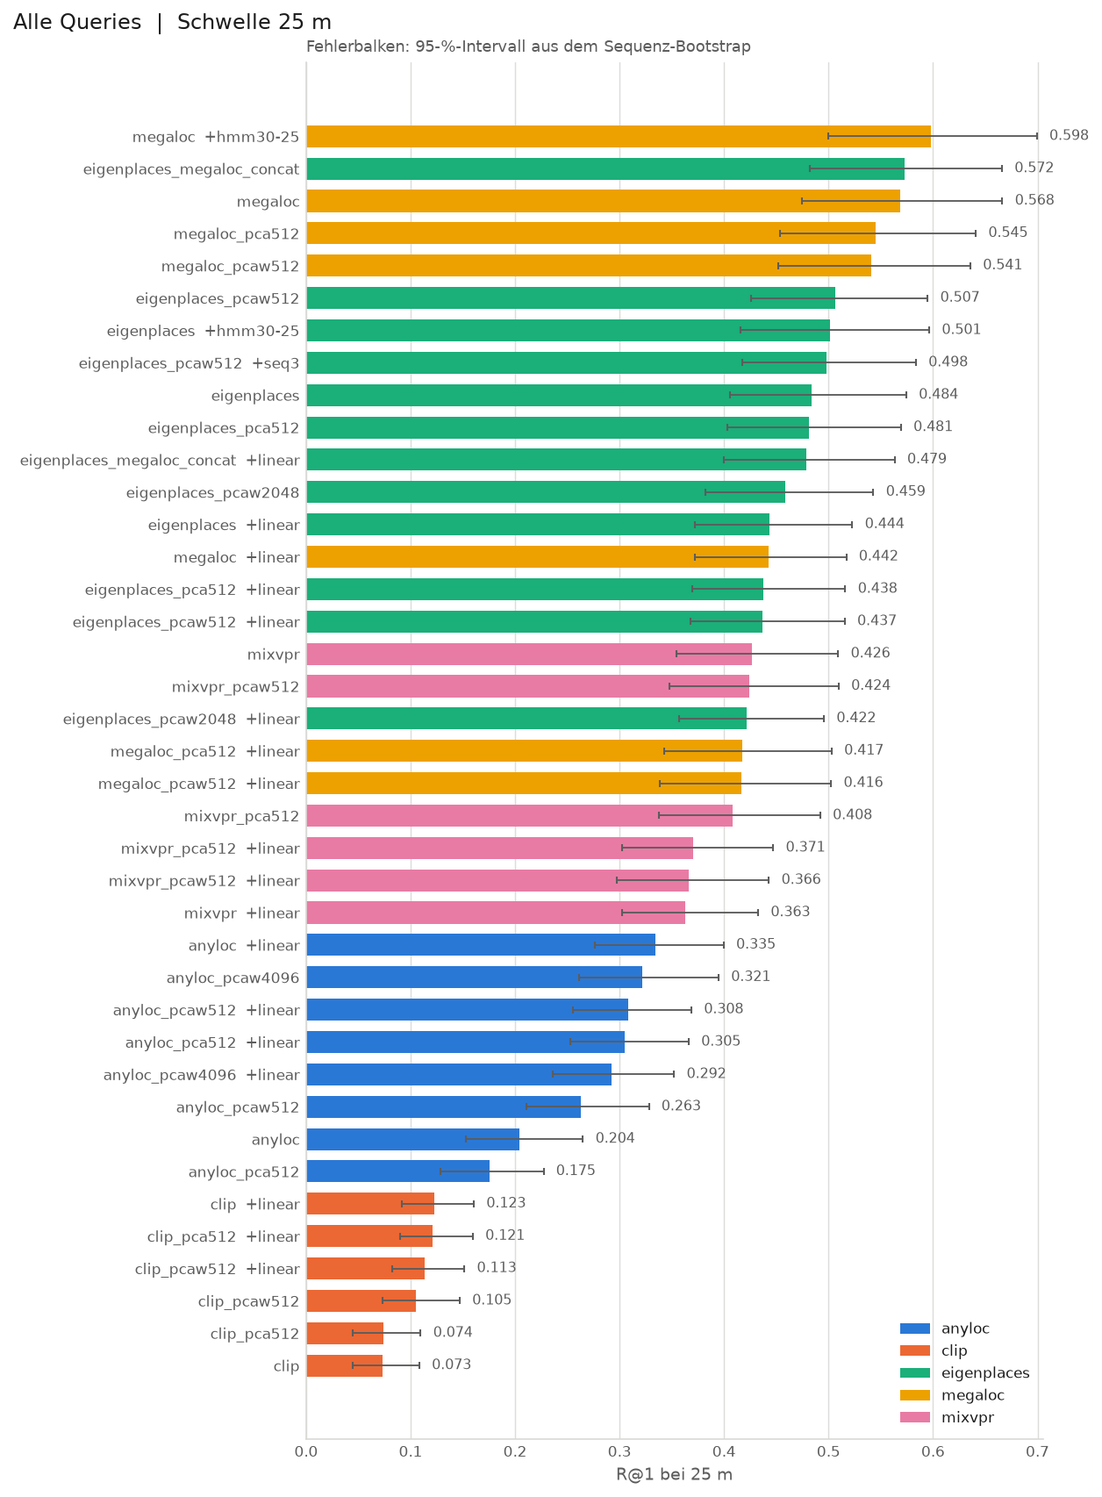
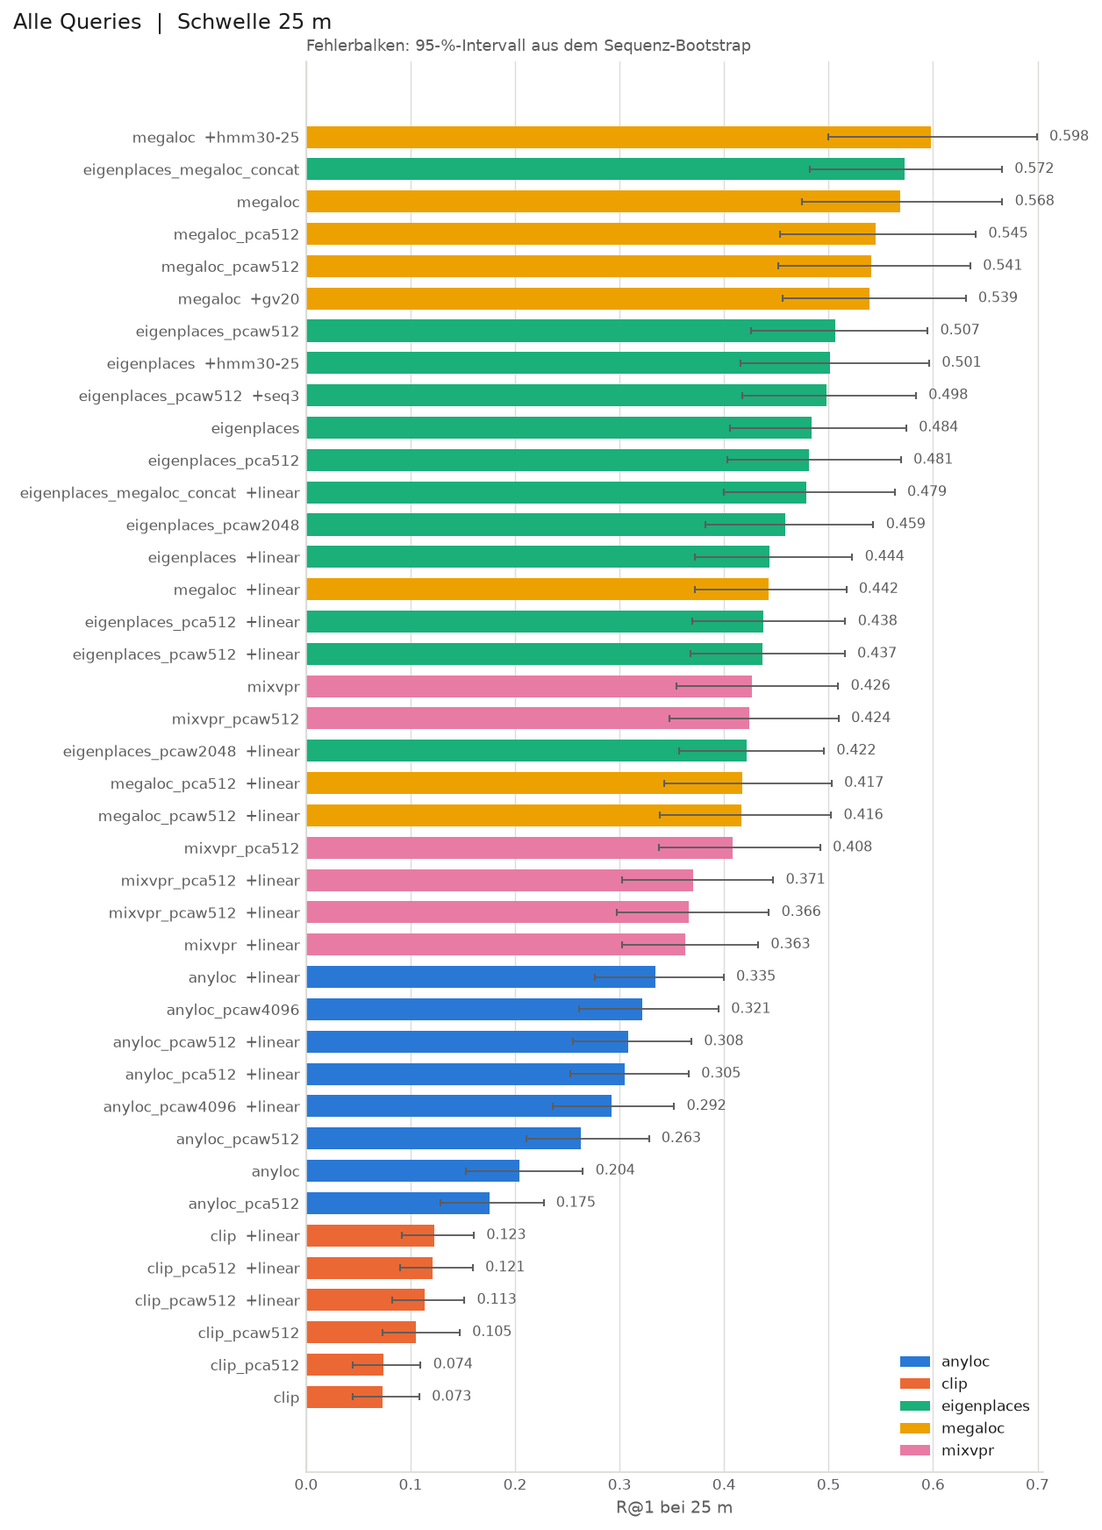
GV-Ergebnis Osnabrück und Adapter-Raster in README und experiments/README, Vergleichsabbildungen mit GV-Zeile

diff --git a/experiments/geometric_verification.py b/experiments/geometric_verification.py
@@ -17,8 +17,9 @@ SuperPoint und LightGlue kommen aus https://github.com/cvg/LightGlue
 nichtkommerzielle Forschung (Magic Leap, siehe NOTICE.md).
 
 Bewertet wird exakt wie in 07. Das ist der teuerste Hebel: je Anfrage k
-Bildpaare durch ein Matching-Netz. Auf der GPU rund 50 Paare je Sekunde,
-auf CPU ein Bruchteil davon -- deshalb standardmaessig eine Stichprobe.
+Bildpaare durch ein Matching-Netz. Auf einer RTX 3070 gemessen rund 27
+Paare je Sekunde (Osnabrueck: 42.010 Anfragen in 8,6 h), auf CPU ein
+Bruchteil davon -- deshalb standardmaessig eine Stichprobe.
 Ein Lauf ueber alle Anfragen gehoert auf den Rechner mit der GPU.
 
     python experiments/geometric_verification.py                   # Stichprobe, 2.000 Anfragen

diff --git a/README.md b/README.md
@@ -32,7 +32,7 @@ zurück. Der Eigenanteil ist nicht das Modell — die Encoder kommen fertig
 vortrainiert — sondern der **Benchmark**: ein sequenzbasierter Split ohne
 Leakage, drei Ground-Truth-Definitionen, eine Zufallsbasis, Fingerabdrücke
 gegen vertauschte Artefakte, Konfidenzintervalle über Fahrten statt über
-Bilder, und 39 vergleichbare Zeilen über fünf Encoder und ihre Varianten.
+Bilder, und 40 vergleichbare Zeilen über fünf Encoder und ihre Varianten.
 
 **Eingabe:** ein Straßenfoto aus dem Stadtgebiet
 **Ausgabe:** geschätzte Koordinate, eine Konfidenz, und die ähnlichsten
@@ -139,7 +139,7 @@ Zwei Protokolle, dieselben 53.414 Anfragen aus **Osnabrück** (fünf weitere
 Städte weiter unten). **Volle Referenz**: alle
 279.453 Bilder außerhalb der Anfragen als Datenbank — das, was ein System
 mit dem ganzen Material leistet. **Benchmark**: nur 15 % der Sequenzen als
-Datenbank — das strengere Protokoll, auf dem alle 39 Zeilen inklusive
+Datenbank — das strengere Protokoll, auf dem alle 40 Zeilen inklusive
 Adapter und Varianten verglichen werden. R@1 bei 25 m über die lösbaren
 Anfragen (90,2 % bzw. 63,9 %); klein dahinter das 95-%-Intervall aus 1.000
 Ziehungen der 198 Query-Fahrten, fett der Bestwert je Spalte. Raten trifft
@@ -188,6 +188,10 @@ Acht Befunde, jeder gemessen, fünf davon (1, 3, 4, 5, 8) mit Intervall belegt:
    stellte „nicht trainieren" nie zur Wahl — MegaLoc bliebe sonst bei 0.568
    ([Adapter-Diagnose](experiments/README.md#adapter_diagnosepy--warum-der-adapter-schadet)).
    Einzige Einschränkung: `anyloc_pcaw512` behält +0.045 [+0.009, +0.088].
+   Ein Raster über Marge und Lernrate zeigt den Hebel: die Lernrate, nicht
+   die Marge. Mit 1e-4 statt 1e-3 bleibt EigenPlaces bei R@1 auf Höhe der
+   Identität (0.483 gegen 0.484), CLIP steigt auf 0.137; gewählt nach val,
+   ohne Intervall ([Adapter-Raster](experiments/README.md#adapter_sweeppy--liegt-es-an-marge-und-lernrate)).
 4. **Die Rangfolge hängt nicht an der Deskriptorbreite.** Auf 512
    Dimensionen bleibt sie identisch; MegaLoc verliert von 8448 auf 512 per
    PCA 0.023 [0.017, 0.031], mit Whitening 0.028 [0.020, 0.038]. Der
@@ -202,8 +206,9 @@ Acht Befunde, jeder gemessen, fünf davon (1, 3, 4, 5, 8) mit Intervall belegt:
    die Fahrt als Pfad liest: +0.030 [+0.020, +0.041] bei MegaLoc, +0.017
    [+0.006, +0.030] bei EigenPlaces — bei EigenPlaces erkauft mit R@10
    (0.650 → 0.633), siehe [Die Fahrt als Pfad](#die-fahrt-als-pfad). Die
-   [geometrische Verifikation](#geometrische-verifikation) ist gebaut, ihre
-   Läufe stehen aus.
+   [geometrische Verifikation](#geometrische-verifikation) der Top-20
+   schärft die Position (R@1 bei 5 m +0.013) und kostet bei 25 m −0.029
+   [−0.062, +0.000] — belegt ist der Verlust nicht, ein Gewinn sicher nicht.
 6. **Fehler sind bimodal.** Unter den 14.726 Fehlgriffen von MegaLoc liegen
    45 % unter 100 m (dieselbe Straße, knapp jenseits der Schwelle) und
    44 % über 1 km (ein anderes Viertel); nur 11 % dazwischen. Ein Median
@@ -940,6 +945,7 @@ eigenplaces   none        2048      0.484  [0.405, 0.574]   0.608   0.650   0.69
 eigenplaces   hmm30-25    2048      0.501  [0.415, 0.596]   0.603   0.633   0.675
 eigenplaces   linear      2048      0.444  [0.372, 0.523]   0.593   0.648   0.696
 megaloc       none        8448      0.568  [0.475, 0.666]   0.676   0.719   0.763
+megaloc       gv20        8448      0.539  [0.456, 0.631]   0.678   0.726   0.763
 megaloc       hmm30-25    8448      0.598  [0.500, 0.699]   0.690   0.725   0.764
 megaloc       linear      8448      0.442  [0.372, 0.517]   0.580   0.628   0.667
 mixvpr        none        4096      0.426  [0.354, 0.509]   0.543   0.590   0.642
@@ -955,7 +961,8 @@ Fuer den Vergleich zweier Zeilen gilt die gepaarte Differenz dort, nicht die Ueb
 
 Spalte „Variante": `none` = Encoder wie veröffentlicht, `linear` = mit
 trainiertem linearem Adapter, `hmm30-25` = Trefferlisten einer Fahrt über
-ein HMM umsortiert (β = 30, σ = 25 m). `--derived` zeigt alle 39 Zeilen:
+ein HMM umsortiert (β = 30, σ = 25 m), `gv20` = Top-20 nach geometrischer
+Verifikation umsortiert. `--derived` zeigt alle 40 Zeilen:
 Namen mit `_pca512` sind per PCA auf 512 reduziert, `_pcaw512` zusätzlich
 gewhitent, `_pcaw4096` / `_pcaw2048` gewhitent ohne Reduktion, `_concat`
 verkettet, `seq3` = Trefferlisten über ±3 Nachbarframes aufsummiert.
@@ -985,12 +992,13 @@ eigenplaces → eigenplaces_pcaw2048          -0.025   [-0.042, -0.010]   ja
 anyloc → anyloc_pcaw4096                    +0.117   [+0.078, +0.162]   ja
 megaloc → eigenplaces_megaloc_concat        +0.004   [-0.005, +0.014]   nein
 megaloc → megaloc_hmm30-25                  +0.030   [+0.020, +0.041]   ja
+megaloc → megaloc_gv20                      -0.029   [-0.062, +0.000]   nein
 megaloc → megaloc_linear                    -0.126   [-0.179, -0.073]   ja
 clip_pcaw512 → clip_pcaw512_linear          +0.009   [-0.002, +0.021]   nein
 ```
 
 <sub>Auszug aus [`experiments/results/osnabrueck/bootstrap_ci.json`](experiments/results/osnabrueck/bootstrap_ci.json),
-erzeugt von `python experiments/bootstrap_ci.py`. Dort stehen alle 38 Paare,
+erzeugt von `python experiments/bootstrap_ci.py`. Dort stehen alle 39 Paare,
 auch für R@5 bis R@20.</sub>
 
 ### Sechs Städte
@@ -1423,17 +1431,6 @@ zeigt, ist als Pfad genauso konsistent wie die richtige.
 
 ### Geometrische Verifikation
 
-<!-- GV-PLATZHALTER. Sobald die Läufe durch sind, den Block unten durch die
-     wörtliche Ausgabe von `python experiments/city_comparison.py` ersetzen
-     (Abschnitt "Geometrische Verifikation"), die Notiz darunter löschen und
-     den Absatz "Befund" schreiben. Danach Befund 5 unter "Ergebnisse auf
-     einen Blick" nachziehen. -->
-
-> [!NOTE]
-> Die Läufe über alle Anfragen stehen noch aus. Der Block zeigt die
-> Struktur, in die sie gehören; was schon feststeht, ist eingetragen,
-> offene Werte stehen als „…".
-
 Die einzige Nachbearbeitung, die die **grobe Verwechslung** direkt angreift
 — global ähnliche, lokal verschiedene Orte; 44 % der Fehlgriffe von MegaLoc
 liegen über einen Kilometer daneben ([Struktur der Fehler](#struktur-der-fehler)). Für jede
@@ -1447,7 +1444,7 @@ bleibt, behält seine alte Reihenfolge hinter den verifizierten.
 `--max-side 640` — die Voreinstellungen des Skripts, nicht an diesen
 Anfragen abgestimmt; woher sie kommen, steht in
 [`experiments/README.md`](experiments/README.md#geometric_verificationpy--top-k-lokal-nachprüfen).
-Berichtet wird diese eine Zeile je Stadt. Verifiziert
+Berichtet wird diese eine Zeile; gerechnet ist sie für Osnabrück. Verifiziert
 werden nur Anfragen, die bei 100 m überhaupt ein Datenbankbild haben; die
 übrigen zählen in keinem Recall mit.
 
@@ -1455,25 +1452,63 @@ werden nur Anfragen, die bei 100 m überhaupt ein Datenbankbild haben; die
 Geometrische Verifikation   Top-k nach SuperPoint + LightGlue umsortiert, Differenz gepaart
 Stadt               R@1    +GV    dR@1     95-%-Intervall  verif.  Anfragen     h
 ---------------------------------------------------------------------------------
-osnabrueck        0.568      …       …                  …       …    42,010     …
-fuerth            0.549      …       …                  …       …    19,957     …
-karlsruhe         0.419      …       …                  …       …    71,965     …
-kaiserslautern    0.651      …       …                  …       …    54,034     …
-wuerzburg         0.336      …       …                  …       …    40,454     …
-jena              0.417      …       …                  …       …    91,645     …
+osnabrueck        0.568  0.539  -0.029   [-0.062, +0.000]   86.8%    42,010   8.6
+fuerth            0.549      —       —                  —       —         —     —
+karlsruhe         0.419      —       —                  —       —         —     —
+kaiserslautern    0.651      —       —                  —       —         —     —
+wuerzburg         0.336      —       —                  —       —         —     —
+jena              0.417      —       —                  —       —         —     —
 ```
 
-<sub>Struktur der Ausgabe von `python experiments/city_comparison.py`. Je
-Stadt nach `python experiments/geometric_verification.py --n-queries 0` und
-danach `python experiments/bootstrap_ci.py`. „Anfragen" ist die Zahl der
-lösbaren Anfragen bei 100 m, also das, was verifiziert wird.</sub>
+<sub>Abschnitt aus der Ausgabe von `python experiments/city_comparison.py`,
+nach `python experiments/geometric_verification.py --n-queries 0` und
+`python experiments/bootstrap_ci.py`. „verif." ist der Anteil der
+Kandidatenpaare mit mindestens 15 Inliern, „Anfragen" die Zahl der bei
+100 m lösbaren Anfragen, also das, was verifiziert wird, „h" die Laufzeit
+auf einer RTX 3070. Die übrigen fünf Städte sind nicht gerechnet.</sub>
 
-Zusammen sind das rund 320.000 Anfragen oder 6,4 Millionen Bildpaare —
-bei den etwa 50 Paaren je Sekunde, die das Skript für eine GPU ansetzt,
-rund 36 Stunden; die tatsächliche Rate druckt es am Ende jedes Laufs. Es
-speichert die Inlier alle zwei Minuten und setzt nach einem Abbruch dort
-fort; der Bootstrap rechnet die Zeile aus den gespeicherten Inliern nach,
-ohne ein Bild erneut zu matchen.
+**Befund: die Verifikation sortiert um, aber nicht zum richtigen Ort.**
+R@1 bei 25 m sinkt von 0.568 auf 0.539, gepaart −0.029 [−0.062, +0.000].
+Das Intervall berührt 0 — belegt ist der Verlust nicht, ein Gewinn ist es
+sicher nicht. R@5 und R@10 bleiben, wo sie waren (+0.002 [−0.018, +0.024],
++0.007 [−0.005, +0.019]); R@20 bleibt es zwingend, umsortiert wird nur
+innerhalb der Top-20. Über die Schwellen kippt das Vorzeichen:
+
+```text
+R@1               5 m     10 m     25 m     50 m    100 m
+megaloc         0.230    0.353    0.568    0.666    0.637
+megaloc_gv20    0.242    0.363    0.539    0.632    0.599
+Differenz      +0.013   +0.010   -0.029   -0.034   -0.039
+```
+
+<sub>Alle Queries, aus `results/osnabrueck/evaluation/megaloc.json` und
+`megaloc_gv20.json`. Ein Intervall gibt es nur bei 25 m.</sub>
+
+Die naheliegende Lesart, einzeln nicht geprüft: die Inlier-Zahl misst
+Bildüberlappung, nicht Ortsgleichheit. Sie zieht den Kandidaten nach vorn,
+der fast denselben Ausschnitt zeigt — das schärft die Position auf wenige
+Meter, verdrängt bei 25 m und mehr aber öfter einen richtigen Treffer durch
+einen falschen mit mehr Inliern. Die Schwelle trennt dabei kaum: 87 % aller
+Kandidatenpaare kommen über 15 Inlier (Median 40). Auf Straßenbildern
+finden SuperPoint und LightGlue auch zwischen verschiedenen Orten genug
+Geometrie — Fahrbahn, Bordsteine, Fassadenraster wiederholen sich.
+
+Was daraus nicht folgt: dass geometrische Verifikation für VPR nichts
+taugt. Gemessen ist eine Einstellung, auf einer Stadt, mit reinem
+Umsortieren nach Inliern. Eine Bewertung, die Inlier mit der globalen
+Ähnlichkeit verrechnet, oder eine höhere Schwelle ist nicht geprüft; die
+Schwelle ließe sich aus den gespeicherten Inliern nachrechnen, ohne neu zu
+matchen — auf Osnabrück wäre das aber Abstimmen an der berichteten
+Stichprobe.
+
+**Laufzeit.** 42.010 Anfragen mal 20 Kandidaten sind 840.200 Bildpaare in
+8,6 Stunden, rund 27 Paare je Sekunde auf der RTX 3070 — gut die Hälfte der
+50, die das Skript vorher ansetzte. Die übrigen fünf Städte (278.055
+Anfragen, 5,6 Millionen Paare) hätten danach rund 57 Stunden gekostet; bei
+einem Ergebnis ohne Gewinn in Osnabrück sind sie nicht gerechnet. Das
+Skript speichert die Inlier alle zwei Minuten und setzt nach einem Abbruch
+dort fort; der Bootstrap rechnet die Zeile aus den gespeicherten Inliern
+nach, ohne ein Bild erneut zu matchen.
 
 Die SuperPoint-Gewichte stehen unter einer **Lizenz nur für
 nichtkommerzielle Forschung**; das betrifft allein dieses Skript, siehe
@@ -1567,7 +1602,7 @@ Bootstrap-Intervall, liegende Balken nach Wert sortiert, Farbe = Encoder),
 `vergleich_recall_k_25m.png` und `vergleich_schwellen.png` (Kurven, Farbe =
 Encoder, gestrichelt = Adapter). Mit `--derived` heißen sie `_derived` und
 werden zu kleinen Vielfachen: ein Feld je Encoder, Farbe und Markerform =
-Deskriptorvariante, Linienstil = Adapter bzw. Sequenz. 39 Zeilen in eine
+Deskriptorvariante, Linienstil = Adapter bzw. Sequenz. 40 Zeilen in eine
 Legende zu zwingen war vorher der Punkt, an dem die Abbildung unlesbar wurde.
 
 <p align="center">
@@ -1649,17 +1684,20 @@ Jena (6.115), Würzburg (4.895) und Heidelberg (4.879). Dichte ist aber nicht
 Abdeckung: Erlangen, die dichteste davon, erreicht nur 63 % der Wohnstraßen
 ([Stadtwahl](experiments/README.md#stadtwahl--welche-stadt-taugt-als-nächste)).
 
-**Nächster Schritt.** Die geometrische Verifikation
+**Offen.** Die geometrische Verifikation
 ([`experiments/geometric_verification.py`](experiments/geometric_verification.py))
-ist gebaut, ihre Läufe über alle Anfragen der sechs Städte stehen aus; die
-Zahlen gehören unter [Geometrische Verifikation](#geometrische-verifikation).
-Sie ist der einzige Hebel, der die grobe Verwechslung direkt angreift:
-global ähnliche, lokal verschiedene Orte. Wie groß der Gewinn ausfällt, ist
-bis dahin nicht belegt.
+ist nur auf Osnabrück gerechnet und dort in dieser Einstellung kein Hebel
+für R@1 bei 25 m ([Geometrische Verifikation](#geometrische-verifikation)).
+Ob eine Bewertung, die Inlier mit der globalen Ähnlichkeit verrechnet, die
+grobe Verwechslung doch angreift, gehört auf eine Stadt, die nicht
+berichtet wird.
 
-Danach bleibt als einziger offener Punkt ein **zweiter Split-Seed**: alle
-Zahlen stehen auf `split_seed: 42`, und wie viel davon am Seed hängt, ist
-nicht gemessen.
+Der Adapter in 05 lernt mit 1e-4 besser als mit 1e-3
+([Adapter-Raster](experiments/README.md#adapter_sweeppy--liegt-es-an-marge-und-lernrate));
+umgestellt ist das nicht, weil es jede Adapter-Zeile in `results/` ändert.
+
+Und ein **zweiter Split-Seed**: alle Zahlen stehen auf `split_seed: 42`,
+und wie viel davon am Seed hängt, ist nicht gemessen.
 
 **An den Fremd-Repositories.** MixVPR hat keine Lizenzdatei. AnyLocs
 Download-Links für das Vokabular sind tot; `setup_external.py` holt es aus

diff --git a/experiments/README.md b/experiments/README.md
@@ -309,7 +309,63 @@ MegaLoc mit kleinerer Marge und Lernrate der test-Verlust gegen 0, und die
 Wahl fällt seltener auf einen schädlichen Adapter; ein Gewinn über die
 Identität hinaus wird nicht erwartet. Bei CLIP muss der Gewinn bleiben.
 
-**Stand: noch nicht gelaufen.**
+**Ergebnis** (Osnabrück, 2026-10-02; R@1 bei 25 m, val und test; die
+Identität ist der Encoder ohne Adapter, fett die Wahl nach val; MegaLoc ist
+nicht gelaufen):
+
+| Encoder | Marge | Lernrate | Epoche | val R@1 | test R@1 | test R@5 | test R@20 |
+|---|---:|---:|---:|---:|---:|---:|---:|
+| eigenplaces | Identität | — | 0 | 0.118 | 0.484 | 0.608 | 0.695 |
+| | 0.2 | 1e-3 | 2 | 0.137 | 0.446 | 0.592 | 0.695 |
+| | 0.2 | 1e-4 | 3 | 0.150 | 0.468 | 0.613 | 0.715 |
+| | 0.1 | 1e-3 | 3 | 0.146 | 0.458 | 0.610 | 0.712 |
+| | 0.1 | 1e-4 | 3 | **0.153** | 0.483 | 0.630 | 0.728 |
+| | 0.05 | 1e-3 | 2 | 0.142 | 0.452 | 0.609 | 0.711 |
+| | 0.05 | 1e-4 | 3 | 0.149 | 0.483 | 0.636 | 0.733 |
+| clip | Identität | — | 0 | 0.015 | 0.073 | 0.106 | 0.158 |
+| | 0.2 | 1e-3 | 1 | 0.033 | 0.115 | 0.207 | 0.332 |
+| | 0.2 | 1e-4 | 1 | 0.038 | 0.133 | 0.232 | 0.357 |
+| | 0.1 | 1e-3 | 1 | 0.031 | 0.115 | 0.208 | 0.334 |
+| | 0.1 | 1e-4 | 1 | **0.039** | 0.137 | 0.235 | 0.364 |
+| | 0.05 | 1e-3 | 1 | 0.032 | 0.115 | 0.208 | 0.337 |
+| | 0.05 | 1e-4 | 1 | 0.034 | 0.136 | 0.234 | 0.365 |
+
+Aus [`results/osnabrueck/adapter_sweep_eigenplaces.json`](results/osnabrueck/adapter_sweep_eigenplaces.json)
+und [`adapter_sweep_clip.json`](results/osnabrueck/adapter_sweep_clip.json).
+
+- **Die Kontrolle hält.** Die Identität trifft 07 auf drei Stellen (0.484,
+  0.073). Die Zeile 0.2 / 1e-3 ist die Einstellung aus 05, aber nicht
+  bitgleich mit ihr: 0.446 gegen 0.444 (EigenPlaces), 0.115 gegen 0.123
+  (CLIP). Beide 05-Zeilen stammen aus einem älteren Lauf (siehe
+  Diagnose oben), und Training auf der GPU ist ohnehin nicht bitgenau.
+  Unterschiede unter etwa 0.01 zwischen zwei Zeilen sind nicht zu deuten.
+- **Die Marge ist es nicht.** Bei gleicher Lernrate liegen die drei Margen
+  bei EigenPlaces innerhalb von 0.015, bei CLIP mit 1e-3 auf drei Stellen
+  gleich (0.115). Die Vermutung aus der Frage trägt nicht.
+- **Die Lernrate ist es.** In allen sechs Paaren (zwei Encoder, drei
+  Margen) ist 1e-4 besser als 1e-3, auf val wie auf test. Bei EigenPlaces
+  schrumpft der test-Verlust von −0.027 bis −0.038 auf −0.001 bis −0.016,
+  bei CLIP wächst der Gewinn von +0.042 auf +0.061 bis +0.064.
+- **Auch die beste Einstellung schlägt die Identität bei R@1 nicht.**
+  EigenPlaces 0.483 gegen 0.484. Was bleibt, liegt weiter hinten: R@5
+  +0.023 / +0.028, R@20 +0.033 / +0.038 (1e-4, Marge 0.1 / 0.05). Ein
+  Intervall dazu gibt es nicht — das Skript speichert keine Trefferlisten,
+  der Bootstrap kann es nicht nachrechnen.
+- **val ordnet richtig, steht aber falsch zur Identität.** Unter den sechs
+  Kombinationen folgt test der val-Reihenfolge (Spearman ρ = 0.94 bei
+  EigenPlaces, 0.89 bei CLIP); die val-Beste ist beide Male auch die
+  test-Beste. Trotzdem liegt bei EigenPlaces jede Kombination auf val über
+  der Identität (+0.019 bis +0.034) und auf test darunter oder gleichauf.
+  Die Wahl nach val nimmt deshalb überall den Adapter — bei CLIP zu Recht,
+  bei EigenPlaces ohne Gewinn. Dasselbe „val steigt, test fällt" wie in der
+  Diagnose, jetzt über ein ganzes Raster.
+
+Gegen die Vorab-Festlegung: der test-Verlust rückt bei EigenPlaces gegen
+0, aber über die Lernrate, nicht über die Marge; die Wahl fällt nicht
+seltener auf den Adapter, nur auf einen, der nicht mehr schadet; ein
+Gewinn über die Identität hinaus bleibt aus; bei CLIP bleibt der Gewinn
+und wächst. Die Pipeline steht weiter auf 1e-3 — 1e-4 in `config.yaml`
+änderte jede Adapter-Zeile in `results/` und jede davon abgeleitete Zahl.
 
 ---
 
@@ -379,9 +435,9 @@ zählt sie als unabhängig.
 ### `bootstrap_ci.py`
 
 Zieht 1.000-mal die 198 Query-Sequenzen mit Zurücklegen und rechnet Recall
-über die gezogenen Sequenzen — dieselben Ziehungen für alle 39 Zeilen, damit
+über die gezogenen Sequenzen — dieselben Ziehungen für alle 40 Zeilen, damit
 Differenzen gepaart ausgewertet werden. Distanzen einmal je Anfrage, der
-Bootstrap ist Arithmetik auf Sequenz-Summen; 39 Zeilen in rund einer Minute.
+Bootstrap ist Arithmetik auf Sequenz-Summen; 40 Zeilen in rund einer Minute.
 Prüft jede Zeile gegen ihre 07-JSON und bricht bei Abweichung ab.
 
 ```bash
@@ -390,7 +446,7 @@ python experiments/bootstrap_ci.py --reference full  # -> results/bootstrap_ci_f
 python compare.py --ci                               # Intervall neben R@1
 ```
 
-Gemessen 2026-09-14, R@1 bei 25 m, Seed 42.
+Gemessen 2026-09-14, die GV-Zeile 2026-10-03; R@1 bei 25 m, Seed 42.
 
 **Die absoluten Zahlen sind unsicherer als gedacht.** Die 95-%-Halbbreite
 liegt bei ±0.03 (CLIP) bis ±0.10 (MegaLoc) statt ±0.005 — ein Design-Effekt
@@ -413,6 +469,7 @@ schwer; in der gepaarten Differenz fällt das heraus. Halbbreiten von
 | megaloc → megaloc_pca512 | −0.023 | [−0.031, −0.017] | nein |
 | megaloc → eigenplaces_megaloc_concat | +0.004 | [−0.005, +0.014] | **ja** |
 | eigenplaces_pcaw512 → seq3 | −0.009 | [−0.017, −0.001] | nein |
+| megaloc → megaloc_gv20 | −0.029 | [−0.062, +0.000] | **ja** |
 | clip → clip_linear | +0.050 | [+0.038, +0.064] | nein |
 | clip_pcaw512 → clip_pcaw512_linear | +0.009 | [−0.002, +0.021] | **ja** |
 | anyloc → anyloc_linear | +0.130 | [+0.081, +0.187] | nein |
@@ -462,7 +519,9 @@ hat (README, „Ergebnisse auf einen Blick"):
    **Aber: die Verkettung schlägt MegaLoc nicht.** +0.004 [−0.005, +0.014]
    schließt 0 ein. Richtig ist: `eigenplaces_megaloc_concat` ist bei einem
    Achtel der Breite *gleichauf* mit MegaLoc, nicht besser. README und
-   Tabelle oben sind entsprechend zu lesen.
+   Tabelle oben sind entsprechend zu lesen. Die später gerechnete
+   geometrische Verifikation schlägt Top-1 ebenfalls nicht: −0.029
+   [−0.062, +0.000].
 7. *Blickrichtung 14,5 %* — eine Zählung, kein Vergleich; nicht Gegenstand.
 
 Ebenfalls bestätigt: 0.484 gegen 0.481 (eigenplaces vs pca512) ist
@@ -1251,8 +1310,9 @@ SuperPoint + LightGlue auf die Top-20, RANSAC gegen eine Fundamentalmatrix,
 nach Inliern umsortieren. Der einzige Hebel, der die Fehlerart direkt
 angreift: global ähnliche, lokal verschiedene Orte. Braucht die Bilder und
 eine GPU, auf CPU nicht sinnvoll. Standard ist `megaloc` — der Encoder, den
-es in allen sechs Städten gibt. **Als Benchmark-Zeile noch nicht gemessen**;
-dafür braucht es `--n-queries 0`, auf dem GPU-Rechner je Stadt:
+es in allen sechs Städten gibt. Als Benchmark-Zeile gemessen auf
+Osnabrück, die übrigen fünf Städte nicht (Ergebnis unten). Dafür braucht es
+`--n-queries 0`, auf dem GPU-Rechner je Stadt:
 
 ```bash
 python experiments/geometric_verification.py --n-queries 0
@@ -1288,6 +1348,29 @@ vor dem Lauf festgelegt. `--min-inliers` lässt sich nachträglich prüfen,
 ohne neu zu matchen — es wirkt erst beim Umsortieren der gespeicherten
 Inlier. Eine Variation der übrigen gehört auf eine Stadt, die nicht
 berichtet wird.
+
+**Ergebnis** (Osnabrück, MegaLoc, 2026-10-03; gepaart gegen MegaLoc, 25 m):
+
+| | MegaLoc | + GV | Diff | 95 % |
+|---|---:|---:|---:|---|
+| R@1 | 0.568 | 0.539 | −0.029 | [−0.062, +0.000] |
+| R@5 | 0.676 | 0.678 | +0.002 | [−0.018, +0.024] |
+| R@10 | 0.719 | 0.726 | +0.007 | [−0.005, +0.019] |
+| R@20 | 0.763 | 0.763 | 0 | — |
+
+Aus [`results/osnabrueck/bootstrap_ci.json`](results/osnabrueck/bootstrap_ci.json).
+R@20 ändert sich zwingend nicht: umsortiert wird nur innerhalb der Top-20.
+Bei 5 und 10 m steigt R@1 dagegen (+0.013, +0.010), bei 50 und 100 m sinkt
+es wie bei 25 m (−0.034, −0.039). Naheliegende, einzeln nicht geprüfte
+Lesart: die Verifikation zieht den Kandidaten mit der größten
+Bildüberlappung nach vorn, und der ist öfter sehr nah, aber auch öfter ein
+falscher Ort. 87 % aller Kandidatenpaare kommen über
+15 Inlier, Median 40: die Schwelle trennt kaum. Einordnung im README unter
+„Geometrische Verifikation".
+
+Laufzeit: 42.010 Anfragen, 840.200 Paare in 8,6 Stunden auf einer RTX 3070,
+rund 27 Paare je Sekunde. Die übrigen fünf Städte hätten danach rund 57
+Stunden gekostet und sind nicht gerechnet.
 
 Lizenz: die SuperPoint-Gewichte stehen unter einer Lizenz **nur für
 nichtkommerzielle Forschung** (Magic Leap), siehe [NOTICE.md](../NOTICE.md).
